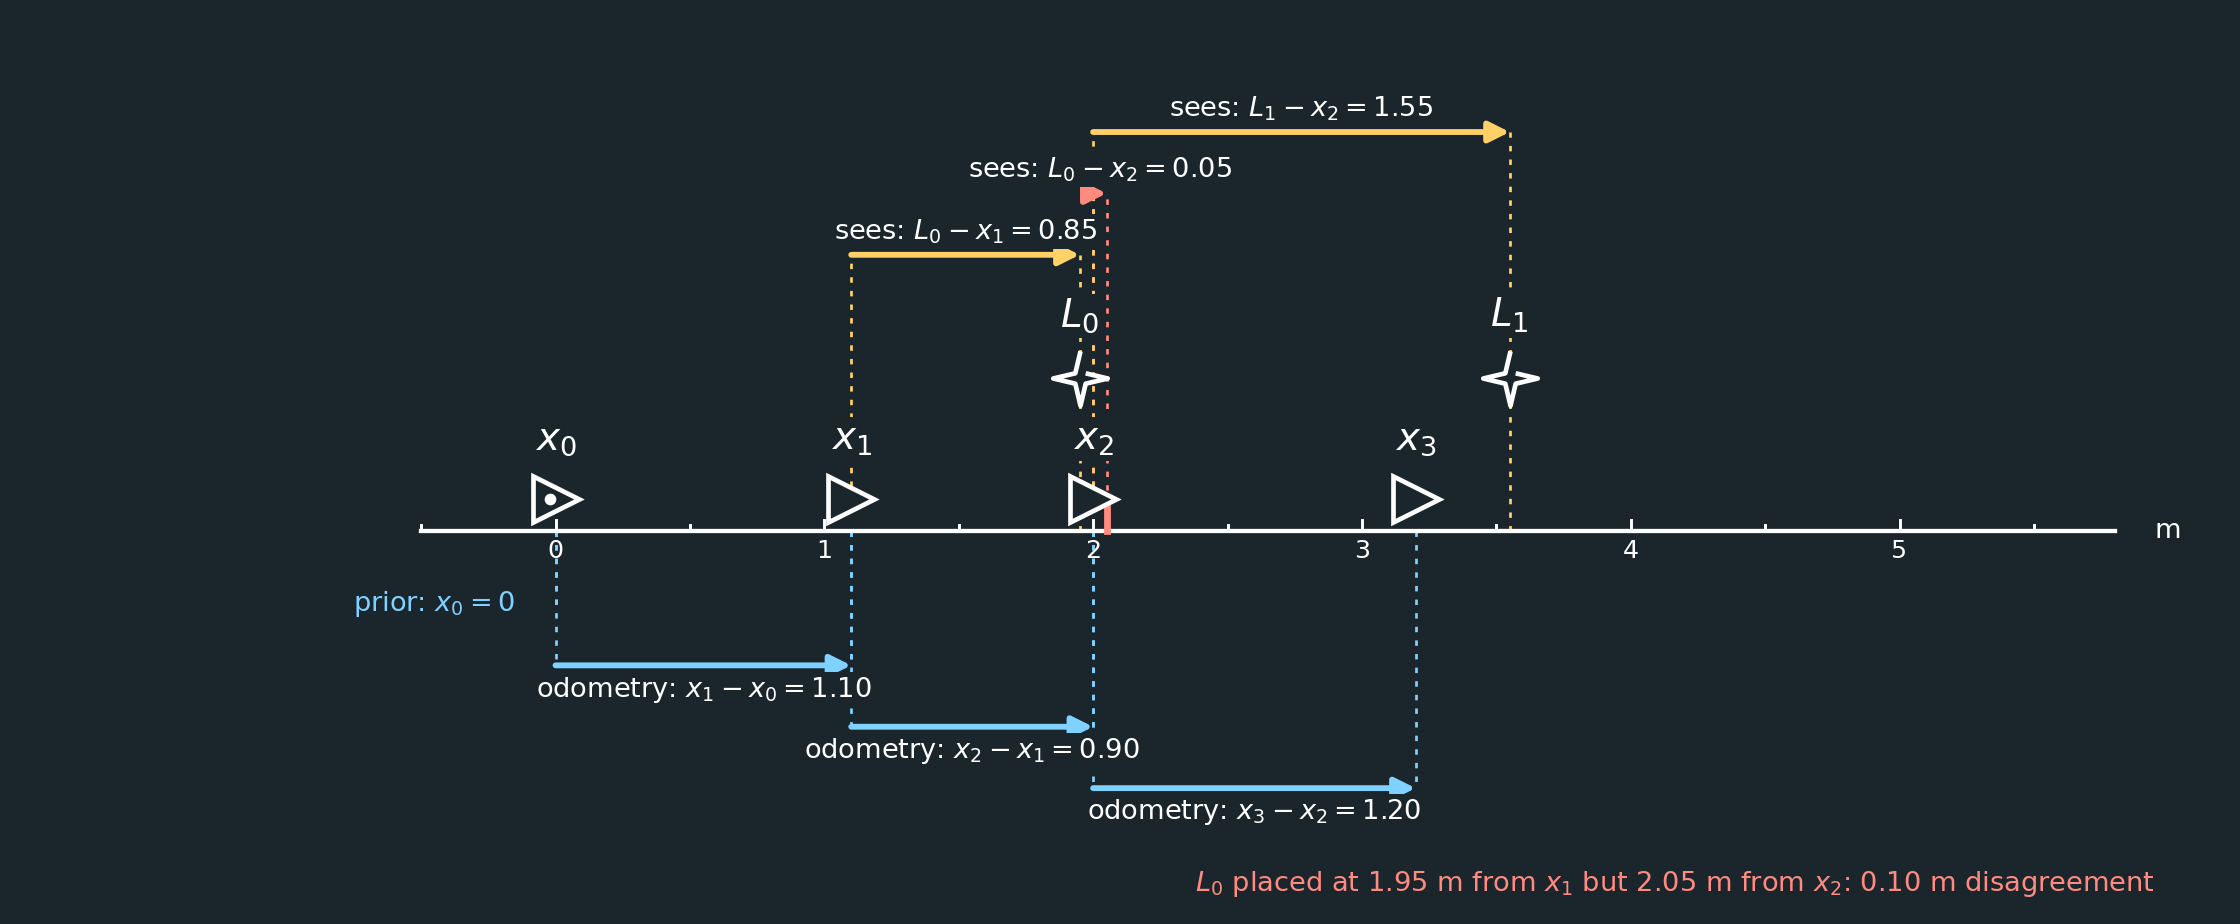
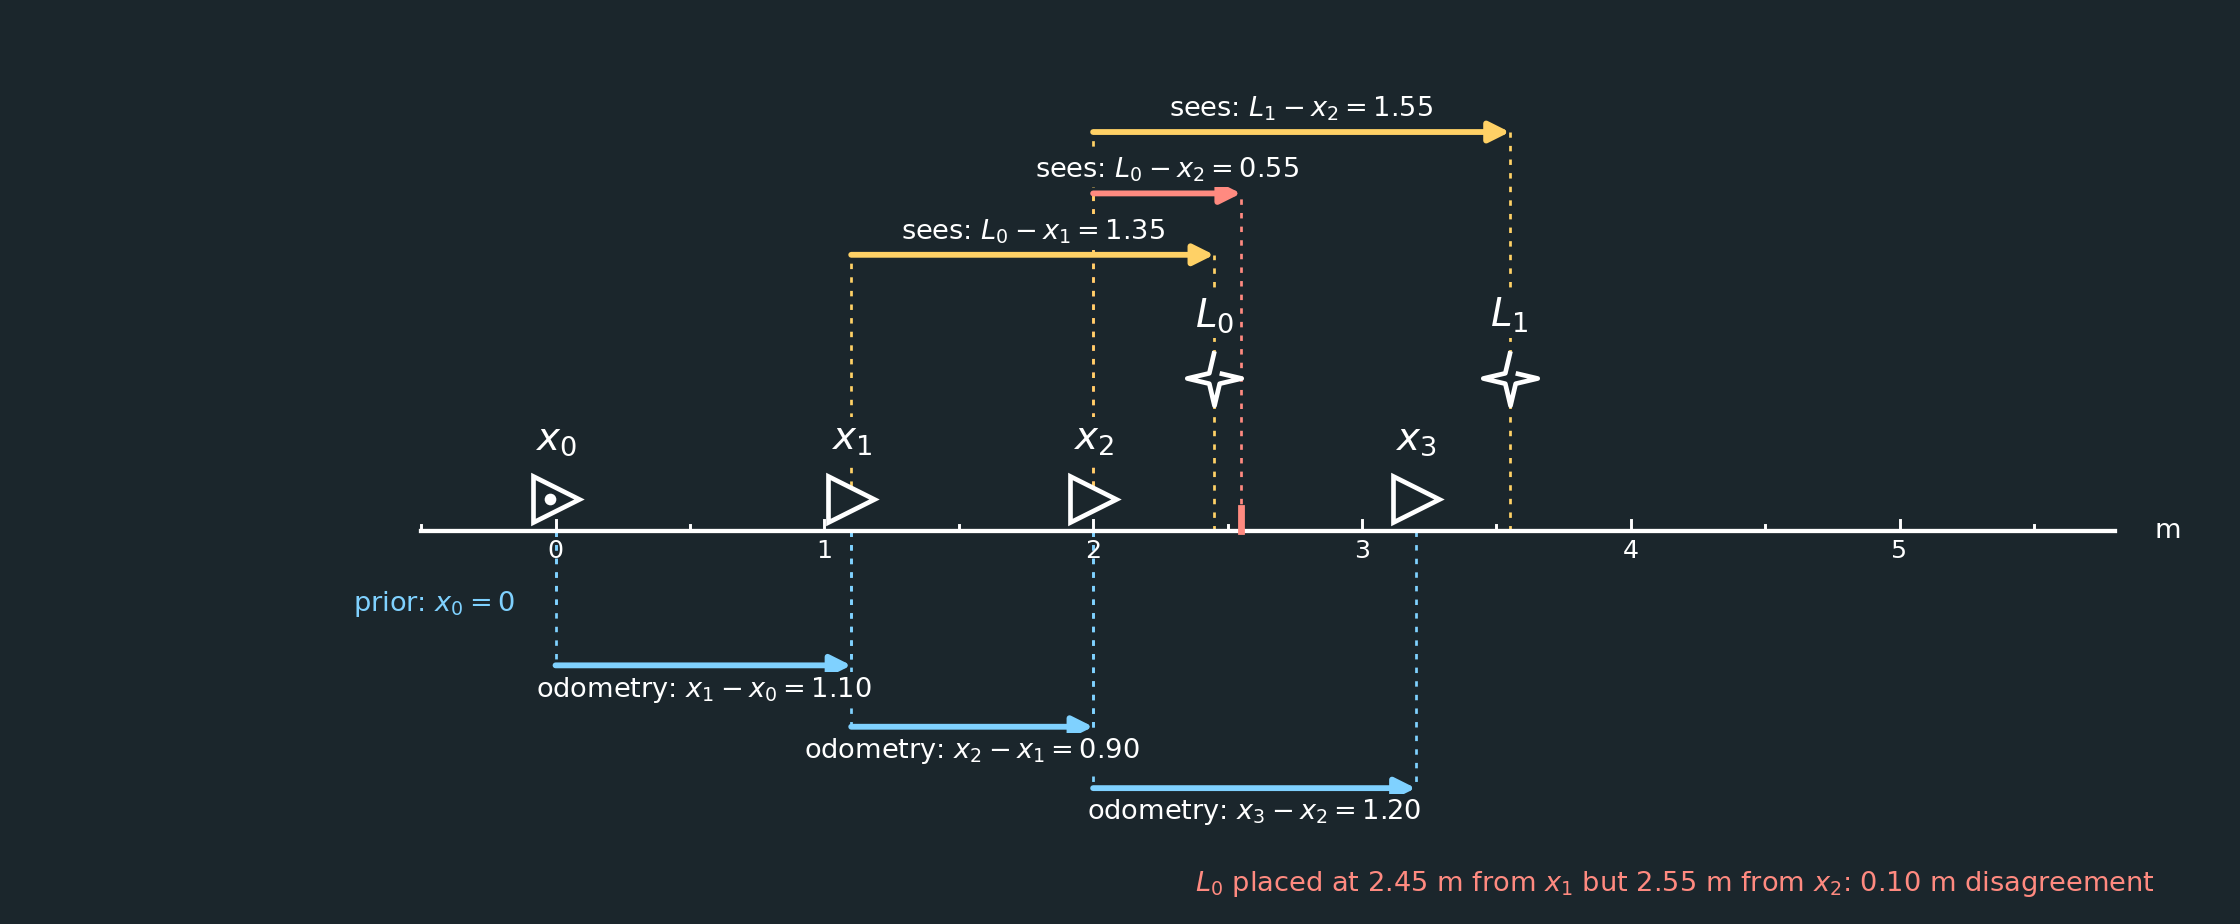
Update 1D GraphSLAM example with corrected measurements and enhance visual representations

diff --git a/Graph_SLAM/Documents/images/generate_step_figures.py b/Graph_SLAM/Documents/images/generate_step_figures.py
@@ -42,12 +42,12 @@ POS = {
 STEPS = [
     [("prior", "x0", None, 0.0, 1.0)],
     [("odom", "x0", "x1", 1.10, 1.0)],
-    [("obs", "x1", "L0", 0.85, 1.0)],
+    [("obs", "x1", "L0", 1.35, 1.0)],
     [("odom", "x1", "x2", 0.90, 1.0)],
-    [("obs", "x2", "L0", 0.05, 1.0)],
+    [("obs", "x2", "L0", 0.55, 1.0)],
     [("obs", "x2", "L1", 1.55, 1.0)],
     [("odom", "x2", "x3", 1.20, 1.0)],
-    [("obs", "x3", "L2", 1.92, 1.0)],
+    [("obs", "x3", "L2", 1.30, 1.0)],
 ]
 FILES = [
     "step1_anchor.png",
@@ -343,12 +343,12 @@ def main():
         fig.savefig(os.path.join(OUT_DIR, world_fname), dpi=140, facecolor=BG)
         plt.close(fig)
 
-    expected_xi = np.array([-1.10, -0.65, -1.90, -0.72, 0.90, 1.55, 1.92])
+    expected_xi = np.array([-1.10, -1.15, -2.40, -0.10, 1.90, 1.55, 1.30])
     assert np.allclose(xi, expected_xi), xi
     assert np.allclose(np.diag(omega), [2, 3, 4, 2, 2, 1, 1]), np.diag(omega)
 
     mu = np.linalg.solve(omega, xi)
-    expected_mu = np.array([0.0, 1.1000, 1.9667, 3.1667, 1.9833, 3.5167, 5.0867])
+    expected_mu = np.array([0.0, 1.1000, 1.9667, 3.1667, 2.4833, 3.5167, 4.4667])
     assert np.allclose(mu, expected_mu, atol=5e-4), mu
     fig = plt.figure(figsize=(16, 4.4), facecolor=BG)
     draw_solution(fig, mu)
